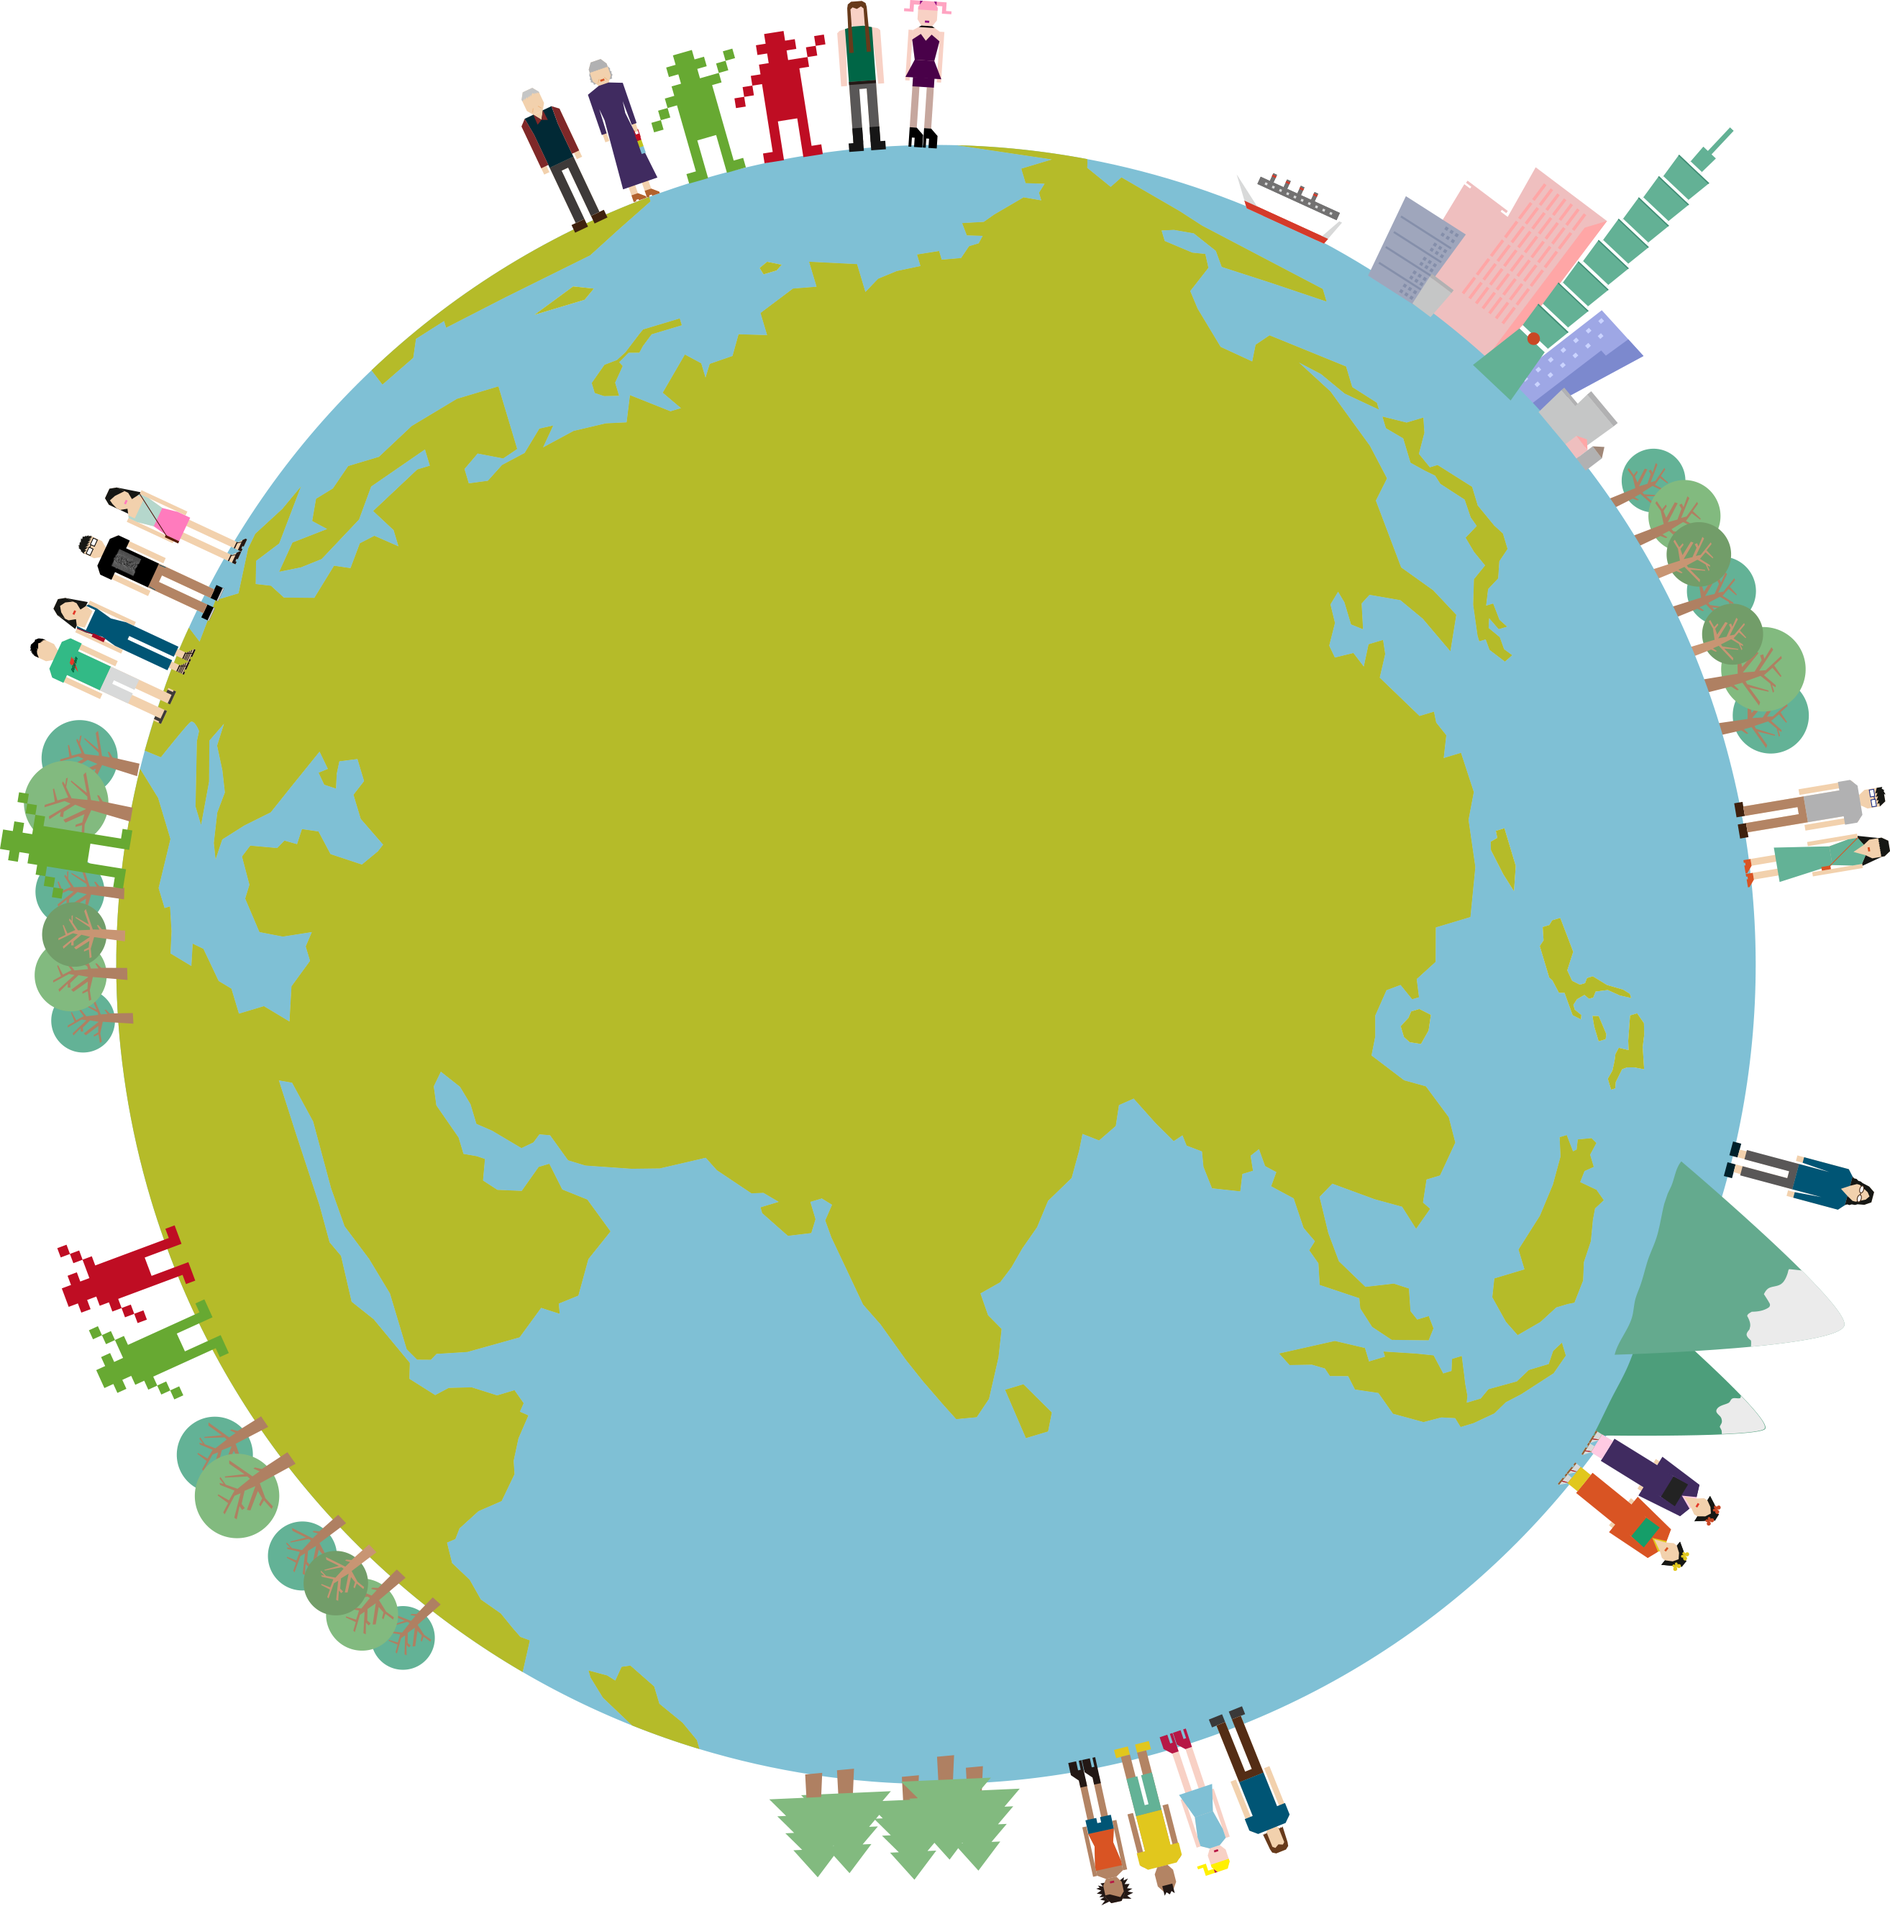
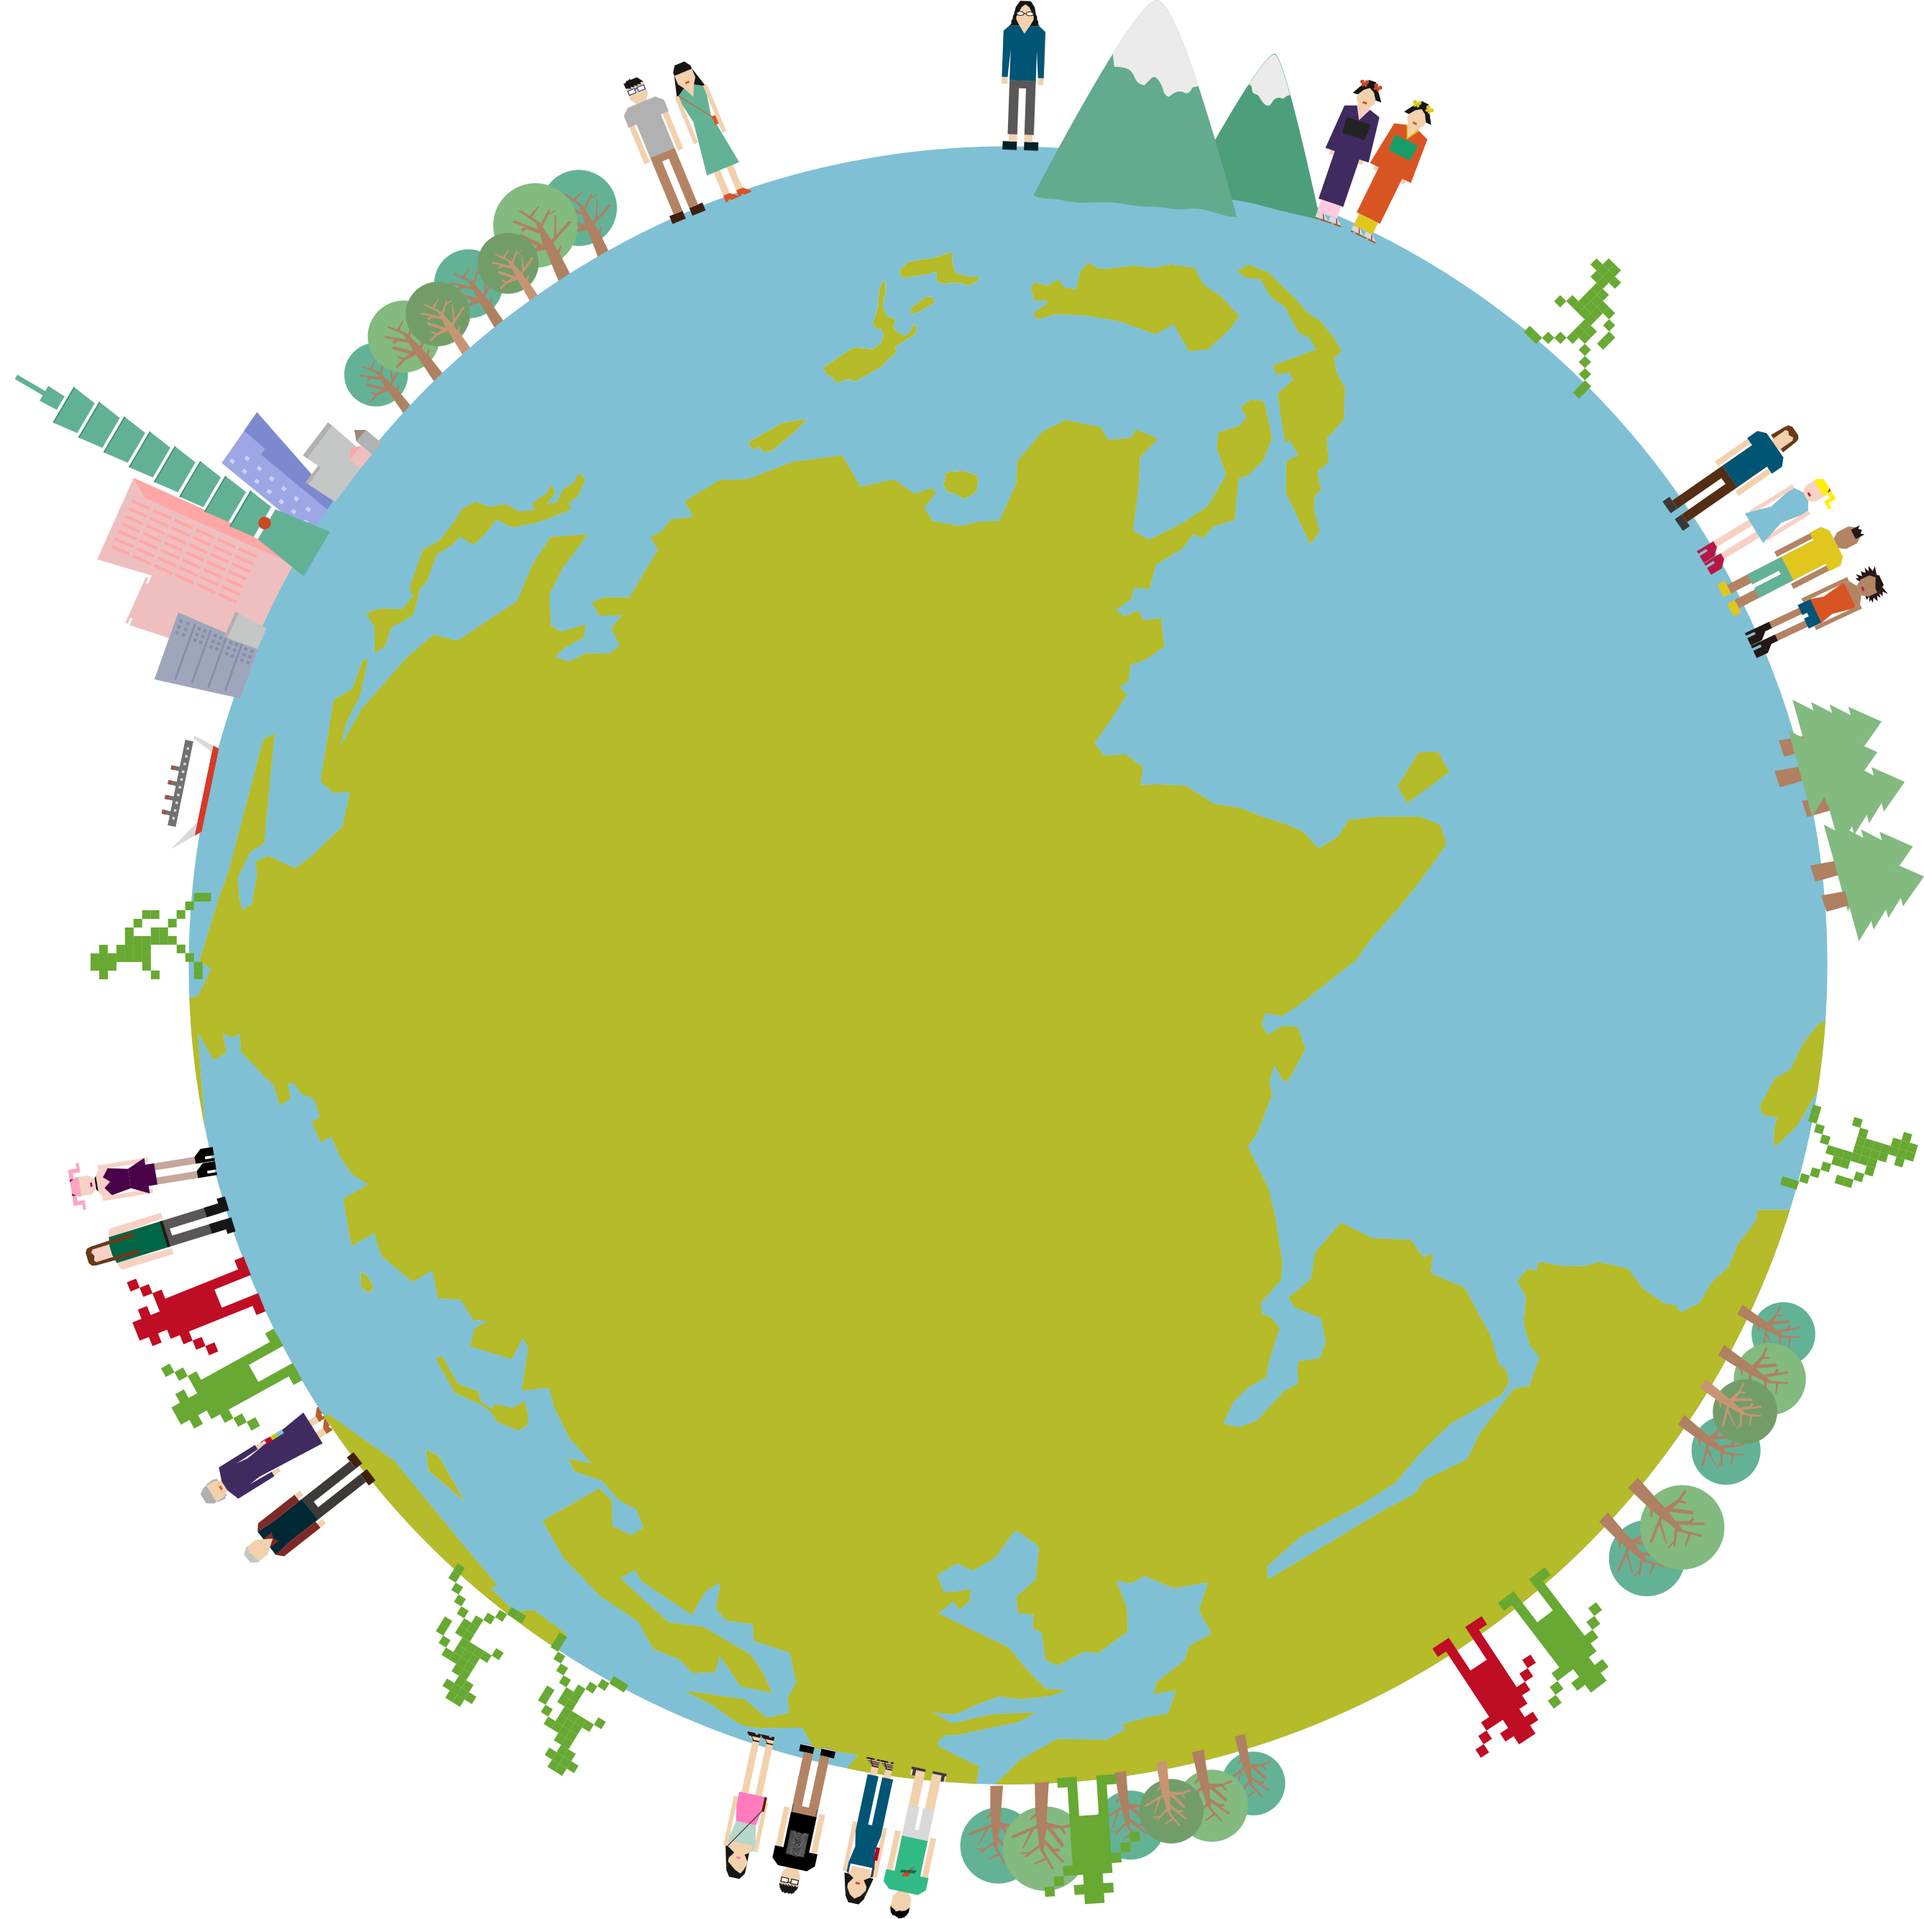
test

diff --git a/public/css/tdc.css b/public/css/tdc.css
@@ -607,12 +607,13 @@ ol, ul {
 }
 
 .content4_title > .content_title{
-    margin-left: 200px;
+    
     font-size: 30px
 }
 .content4_title > .content{
-    width: 30%;
+    width: 32%;
     font-size: 20px;
+    margin-top: 10%;
     margin-left: 200px;
 }
 .ct_1{
@@ -747,6 +748,7 @@ ol, ul {
 .gb{
     width: 70%;
     margin-left:15%;
+    margin-top: 0%
 }
 .mask_1{
     width:100%;height:800px;position:relative;z-index:30
@@ -885,4 +887,31 @@ ol, ul {
     width: 2%;
     margin-top: 15%;
     margin-left: 49%;
+}
+.content_title4
+{
+
+    width: 300%;
+    margin-left: 0%;
+}
+.content_title4 img{
+    width: 600px;
+}
+.content4_title .content p{
+    color: #d4392a;
+    font-size: 20px;
+    line-height: 20px;
+}
+.gr_fr{
+    position: absolute;
+    width: 100%;
+    z-index: 9999999;
+}
+#greenman{
+    width: 5%;
+    margin-left: 47.5%;
+}
+.tppl{
+    width: 70%;
+    margin-left:15%;
 }
